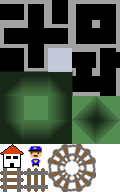
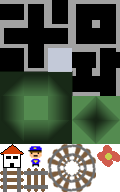
chance of spawning props on grass

Changed region(s): [[0.8, 0.75, 1.0, 0.875]]

diff --git a/Assets/SpawnRandom.cs b/Assets/SpawnRandom.cs
@@ -10,7 +10,10 @@ public class SpawnRandom : MonoBehaviour {
 
     void Start() {
         float random = Random.value;
-        if (random > Chance) return;
+        if (random > Chance) {
+            Clear();
+            return;
+        }
 
         // check if there is nothing on top of this tile
         Vector3 origin = transform.position + Vector3.up * height;
